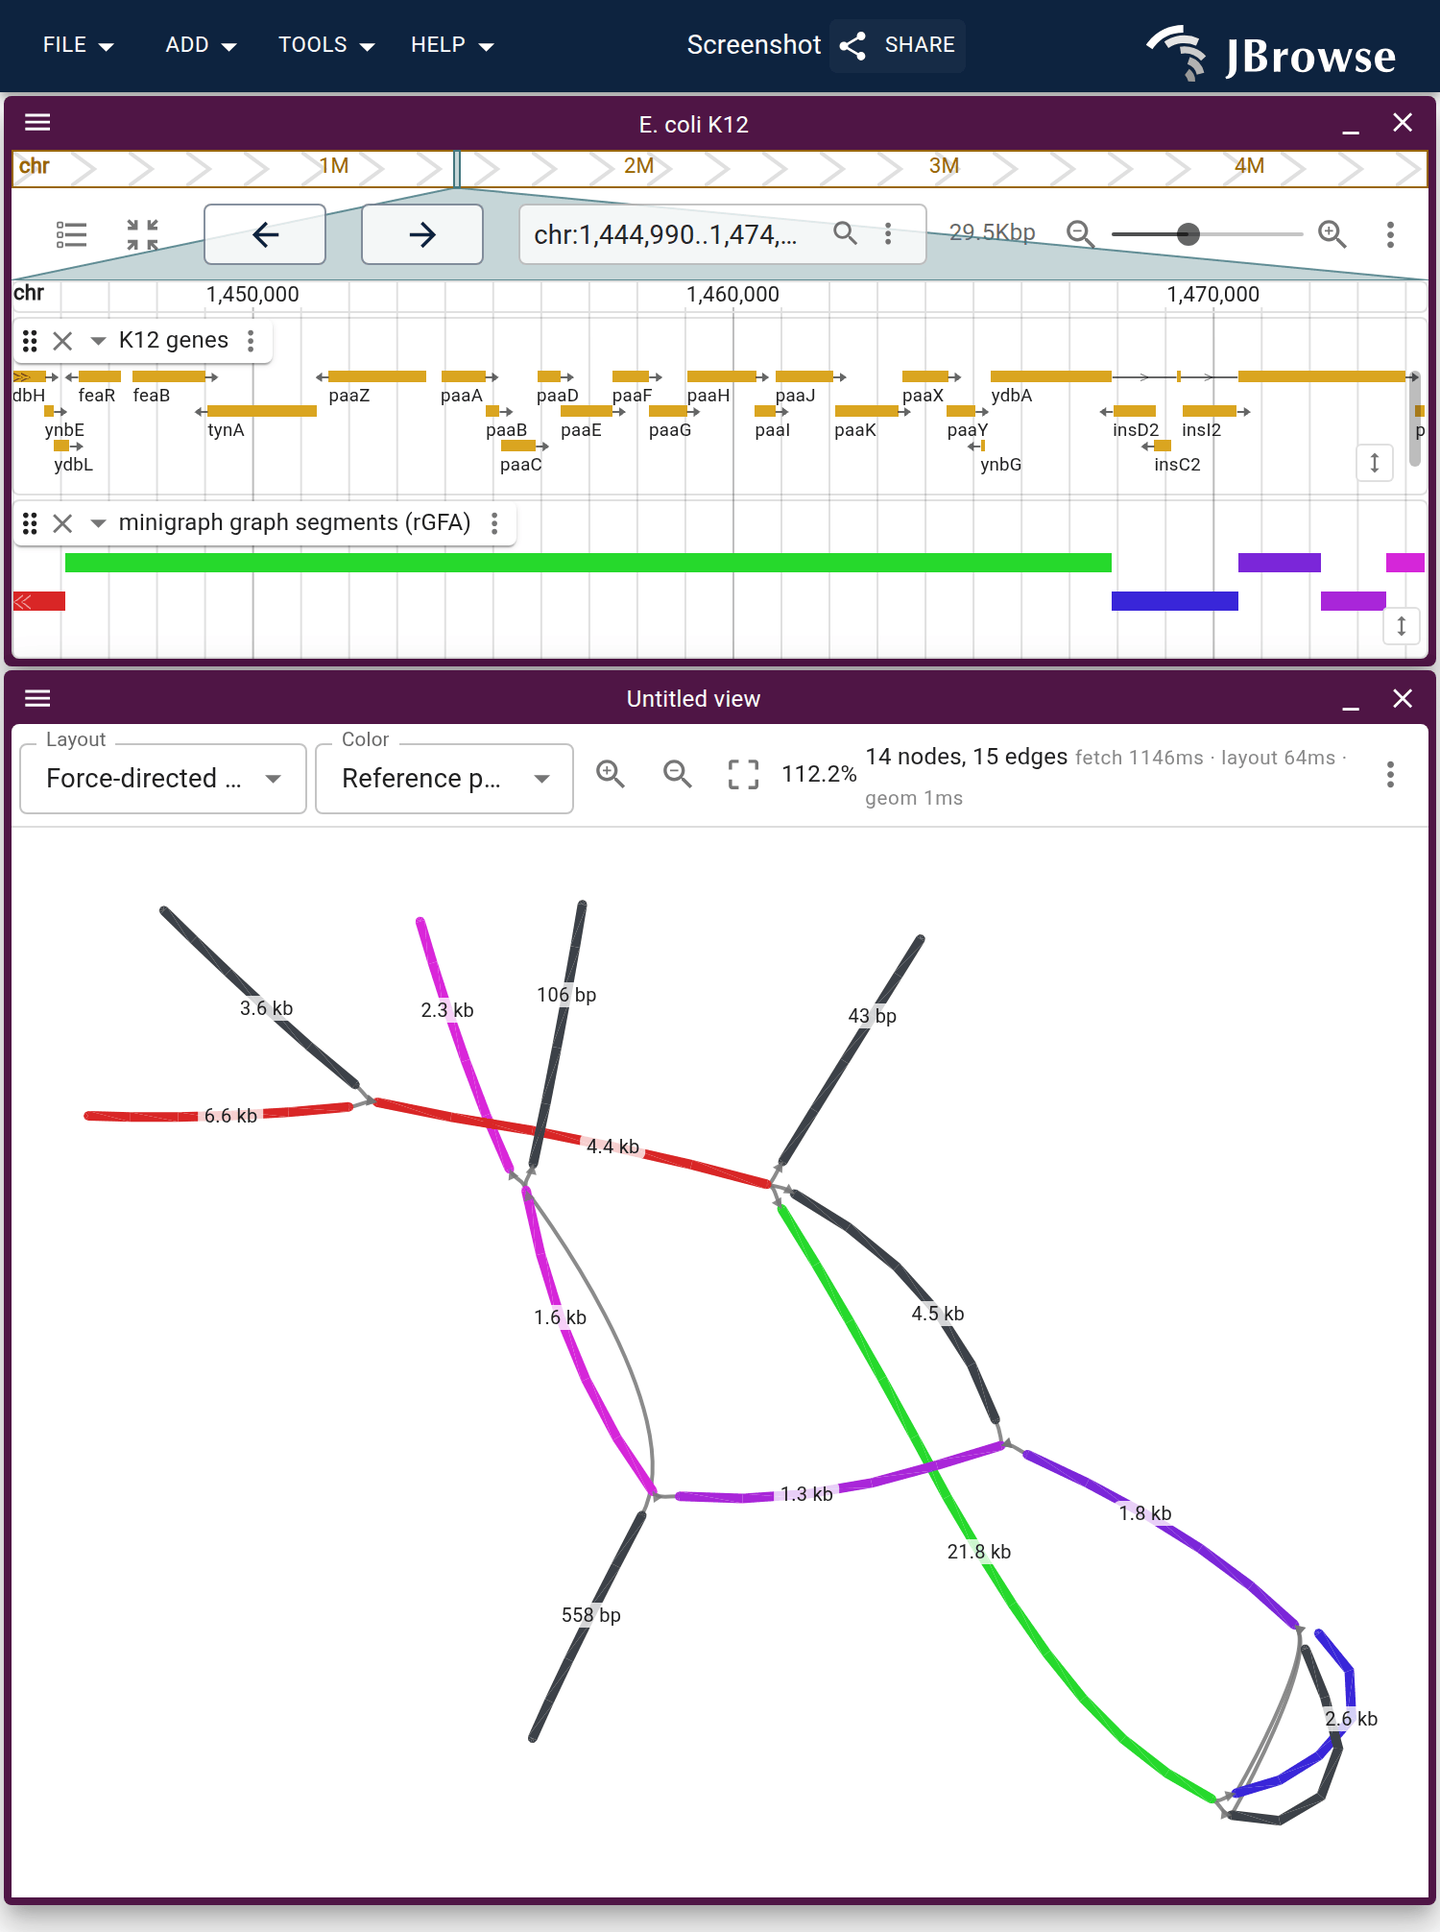
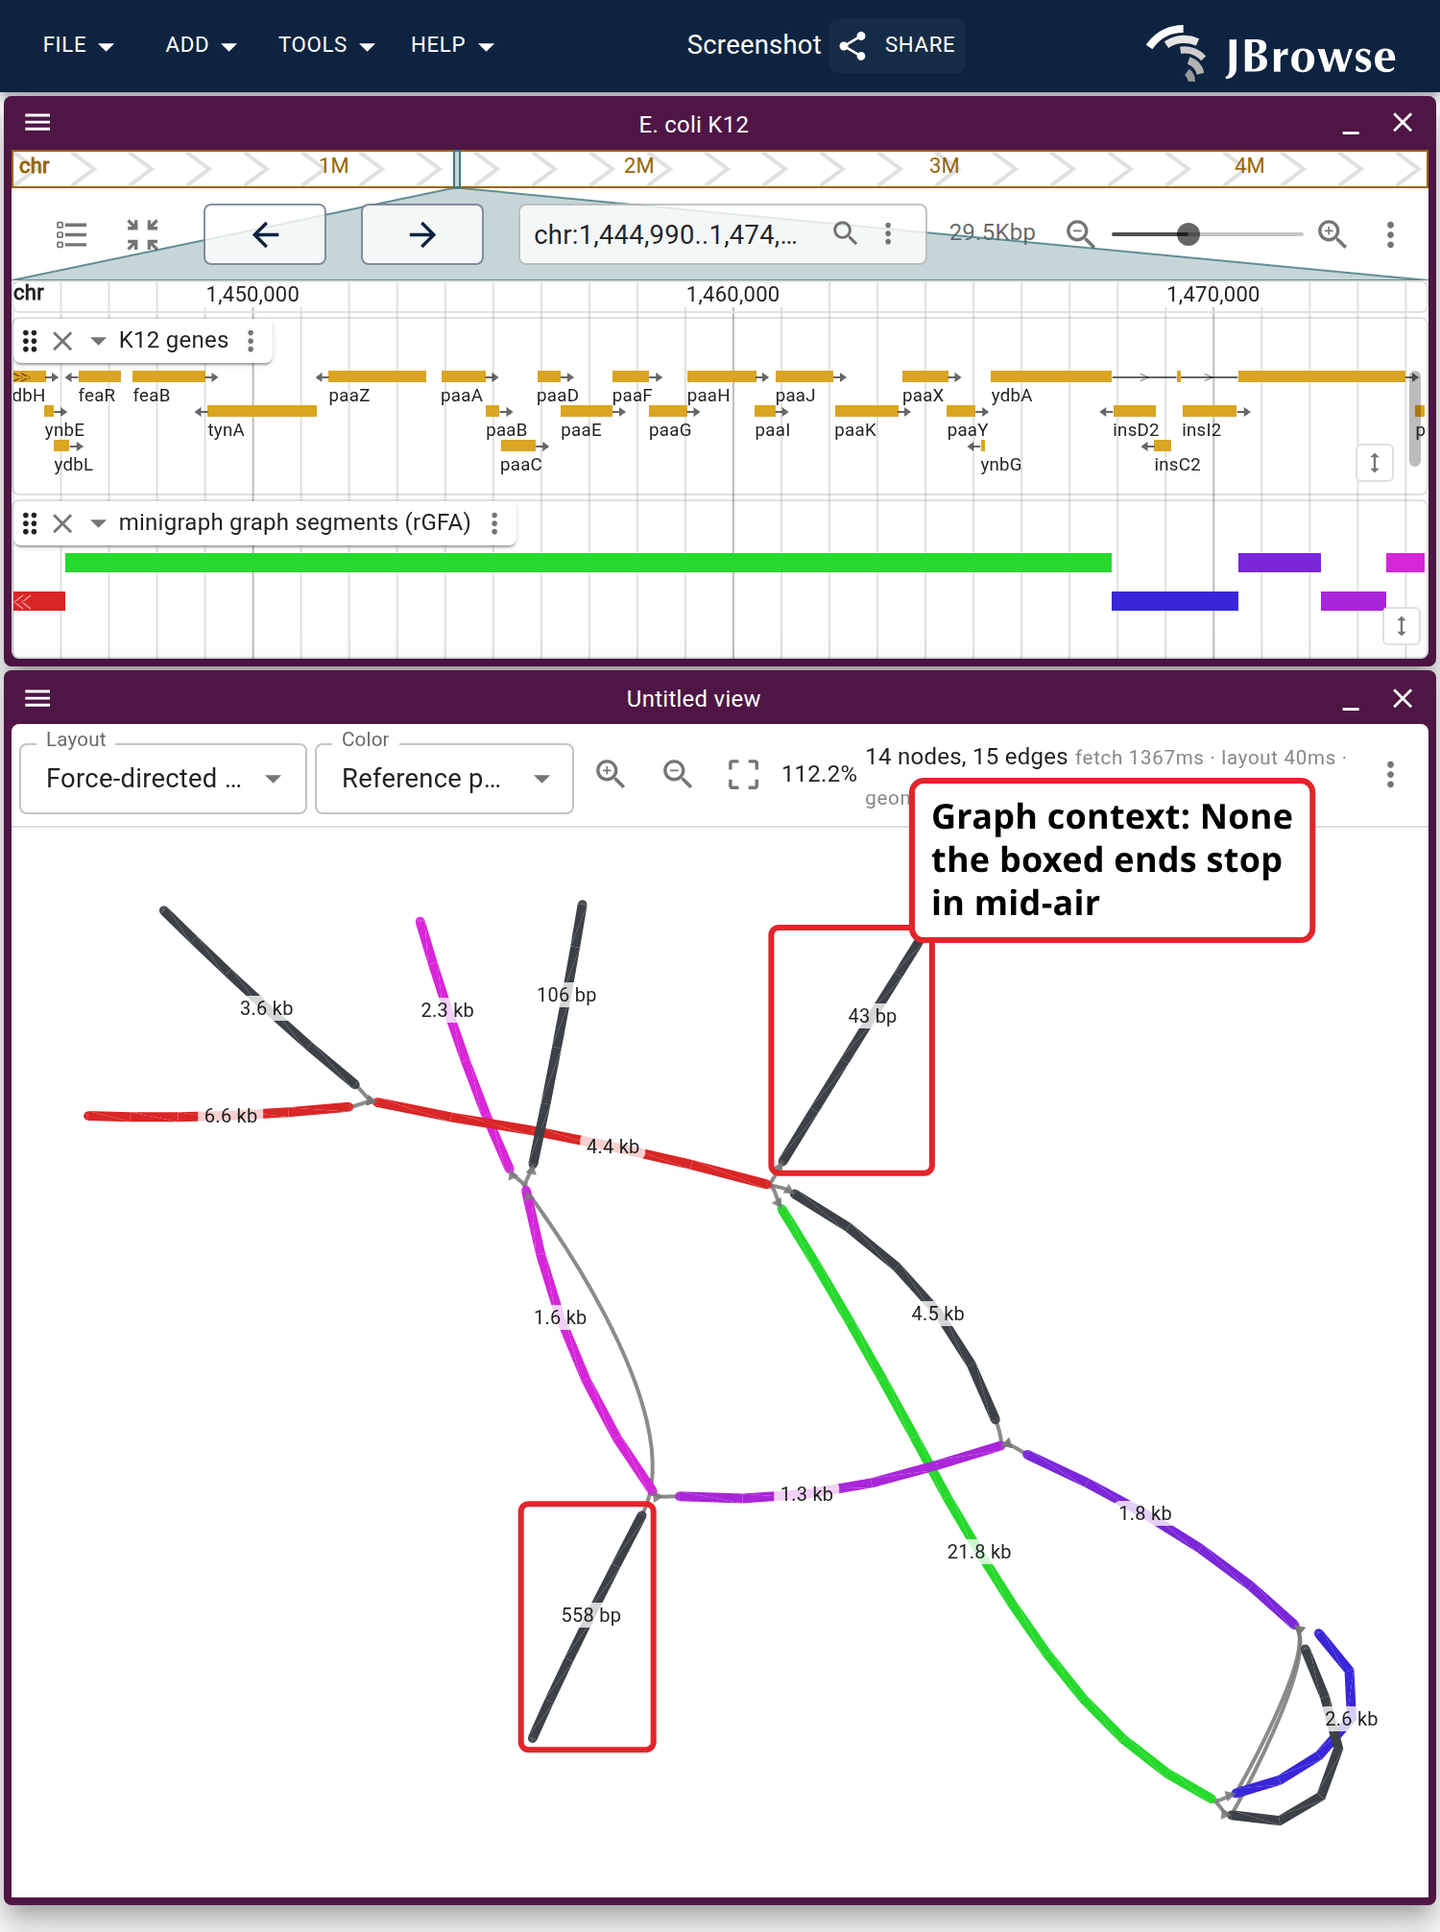
fix(docs): make the graph-context figure state its own difference
The two halves were two FMMM tangles sharing no visible landmark, so the only
thing saying what changed between them was a node count in the header (review:
"I don't particularly understand the difference here. ideally, shows red boxes
and arrow and/or text annotation"). Both halves now carry the setting they are
in, and box THE SAME TWO NODES: 43 bp (s2093) and 558 bp (s2095), where one
CFT073 detour leaves the K12 backbone and rejoins it. Two loose ends at None,
the two sides of a closed bubble at 1 hop, with an arrow on the 5.5 kb interior
(s2094) the extra queries found. Boxed by segment id through the view's own
nodePositions, so the two layouts can place them however they like.

The label anchors to the graph canvas, not to the node-count readout beside it.
That element is text, so its width and centre move with the numbers it happens
to show: 17 nodes against 20 shifted the pill and swung the arrow tail off the
pane, a callout decalibrated by the thing it captions.

Also gives the figure recipe dialog its first GraphGenomeView click-paths. It
had none, so a reader of any graph figure got the session JSON and no menu at
all (review: "what the gui is for selecting this, user might not intuitively
understand"). Seven fields now map, against labels read off the content-pinned
plugin bundle rather than guessed: the launch itself, the window, Layout, Color,
Bubble spread, Reference path and Graph context. The guide spells the menu out
[…]

Changed region(s): [[0.6133, 0.4006, 0.92, 0.5855], [0.3373, 0.7704, 0.46, 0.9245], [0.5213, 0.4622, 0.644, 0.6163]]

diff --git a/website/src/lib/spec-recipe/fields.ts b/website/src/lib/spec-recipe/fields.ts
@@ -319,6 +319,71 @@ const TRACK_LABELS: Record<string, string> = {
   hidden: 'Hidden',
 }
 
+// GraphGenomeView settings. The plugin is third-party, so there is no option
+// table to import the way the alignments ones are imported: every label below is
+// read off the bundle the figures actually render, which is pinned by
+// content-addressed esmUrl in test_data/graphgenomeview, so it cannot drift
+// without a diff in this repo. `Layout` and `Color` are selects in the view's own
+// toolbar. The rest are selects in the `Graph settings` dialog, which the view
+// menu opens with its `Settings` item, and which is the answer to "where is this
+// in the GUI" for a reader who only has the figure (review, on graph_context:
+// "what the gui is for selecting this, user might not intuitively understand").
+const GRAPH_LAYOUTS: Record<string, string> = {
+  auto: 'Anchored',
+  samplerows: 'Sample rows',
+  force: 'Force-directed layout',
+}
+
+const GRAPH_COLOR_SCHEMES: Record<string, string> = {
+  uniform: 'Uniform',
+  random: 'Random',
+  rainbow: 'Rainbow',
+  depth: 'Depth',
+  'node-length': 'Node Length',
+  'stable-rank': 'Stable rank',
+  'reference-position': 'Reference position',
+  grey: 'Grey',
+}
+
+const GRAPH_BUBBLE_SPREADS: Record<string, string> = {
+  auto: 'Proportional',
+  open: 'Open bubbles',
+  wide: 'Wide bubbles',
+}
+
+const GRAPH_CONTEXTS: Record<number, string> = {
+  0: 'None',
+  1: '1 hop',
+  2: '2 hops',
+}
+
+const GRAPH_SETTINGS = 'Graph view menu → Settings'
+
+const graphToolbarField = (
+  label: string,
+  table: Record<string, string>,
+): FieldRecipe => {
+  return value => {
+    const option = typeof value === 'string' ? table[value] : undefined
+    return option
+      ? { path: `Graph view toolbar → ${label} → ${option}` }
+      : undefined
+  }
+}
+
+const graphSettingsField = (
+  label: string,
+  table: Record<string, string>,
+  note?: string,
+): FieldRecipe => {
+  return value => {
+    const option = typeof value === 'string' ? table[value] : undefined
+    return option
+      ? { path: `${GRAPH_SETTINGS} → ${label} → ${option}`, note }
+      : undefined
+  }
+}
+
 export const viewFields: Record<string, FieldRecipe> = {
   showCenterLine: value =>
     typeof value === 'boolean'
@@ -340,6 +405,50 @@ export const viewFields: Record<string, FieldRecipe> = {
     typeof value === 'boolean'
       ? {
           path: `Synteny view menu → Show curved lines (${value ? 'checked' : 'unchecked'})`,
+        }
+      : undefined,
+  // How the view got there at all, which is the step a reader with only the
+  // figure is missing: a graph view is launched from a segments track rather
+  // than added empty. The item is the plugin's own
+  // 'Graph genome view (this region)' inside core's 'Launch view' submenu
+  // (pushLaunchViewMenuItem).
+  loadedTrackId: value =>
+    typeof value === 'string'
+      ? {
+          path: `${TRACK_MENU} (on the graph segments track) → Launch view → Graph genome view (this region)`,
+          note: 'Launching from the track is what ties the two panels together: the graph is cut from the same file the lane above it draws.',
+        }
+      : undefined,
+  loadedRegion: value =>
+    asRecord(value)
+      ? {
+          path: 'Set the location box before launching the graph view.',
+          note: 'The cut is the window the linear view was showing, so the graph covers what you were looking at.',
+        }
+      : undefined,
+  layoutMode: graphToolbarField('Layout', GRAPH_LAYOUTS),
+  colorScheme: graphToolbarField('Color', GRAPH_COLOR_SCHEMES),
+  bubbleSpread: graphSettingsField(
+    'Bubble spread',
+    GRAPH_BUBBLE_SPREADS,
+    'Sets a floor on how long a node is drawn in the force layout, so a short allele is a visible arm rather than a speck. Does nothing in the anchored layouts, which place a node from its coordinates.',
+  ),
+  // the select lists the GFA's own path names, so the figure's value IS the
+  // option a reader picks
+  referencePath: value =>
+    typeof value === 'string'
+      ? {
+          path: `${GRAPH_SETTINGS} → Reference path → ${value}`,
+          note: 'Which path the anchored layouts draw x against. Only offered when the file states more than one.',
+        }
+      : undefined,
+  // the only numeric one of the graph settings, so it can't use the string
+  // tables above
+  subgraphContext: value =>
+    typeof value === 'number' && GRAPH_CONTEXTS[value]
+      ? {
+          path: `${GRAPH_SETTINGS} → Graph context → ${GRAPH_CONTEXTS[value]}`,
+          note: 'How far the cut follows links out of the region. Each hop costs a query per off-reference segment already reached, which is why it defaults to None.',
         }
       : undefined,
   highlight: value =>

diff --git a/website/scripts/specs/graph.ts b/website/scripts/specs/graph.ts
@@ -1,6 +1,6 @@
 import { sessionSpec } from '../screenshot-spec-helpers.ts'
 
-import type { ScreenshotSpec } from '../screenshot-spec-types.ts'
+import type { Annotation, ScreenshotSpec } from '../screenshot-spec-types.ts'
 
 // Figures for the pangenome tutorials that use the third-party
 // jbrowse-plugin-graphgenomeview (GraphGenomeView). The plugin bundle and the
@@ -719,8 +719,56 @@ function pggbLocusSession(
 // (ALT_ALLELE_COLOR) — which is what makes "the added nodes are off-reference"
 // visible rather than asserted. Stable rank was the coloring while these were
 // graph panes alone.
+//
+// Both halves box THE SAME TWO NODES and say which setting they are (review: "I
+// don't particularly understand the difference here. ideally, shows red boxes
+// and arrow and/or text annotation showing the difference between the two
+// sides"). Without that, the difference is stated only as a node count in a
+// header over two FMMM tangles that share no visible landmark, so the reader has
+// nothing to compare. Boxed on their ids rather than their positions, so the two
+// layouts can put them wherever they like:
+//
+// - s2093 (43 bp) and s2095 (558 bp) are where one CFT073 detour leaves the
+//   backbone and rejoins it. At None they are the two loose ends. At 1 hop the
+//   same two boxes are the two sides of a closed bubble.
+// - s2094 (5.5 kb) is that detour's interior. It sits on CFT073's own contig, so
+//   no K12 coordinate names it and the region query cannot reach it. It is what
+//   the hop adds, and the arrow in that half points at it.
+//
+// The hop reaches five other segments too, which is why the right half still has
+// loose ends: one step out lands on a new frontier (s2092, s2387, s2633), and two
+// of the five are rank 0 reference either side of the window (s499, s508).
 function graphContextPartSpecs(): ScreenshotSpec[] {
-  const part = (name: string, subgraphContext: number): ScreenshotSpec => ({
+  const DETOUR_ENTRY = 's2093+'
+  const DETOUR_EXIT = 's2095+'
+  const DETOUR_INTERIOR = 's2094+'
+  // The label sits in the graph pane's own top-right, which is empty in both
+  // layouts, anchored on the canvas the graph draws into. NOT on the node-count
+  // readout beside it, which was the first thing tried: that element is text, so
+  // its width and therefore its centre move with the numbers it happens to be
+  // showing. `17 nodes, 21 edges` against `20 nodes, 25 edges` shifted the pill
+  // and swung the arrow tail off the pane, which is a callout decalibrated by the
+  // thing it is captioning. The canvas is sized by the viewport instead, and its
+  // 13px height difference between the halves is the only thing dy inherits.
+  //
+  // maxWidth is what keeps the pill inside its own half of the composite: with
+  // the pill's left edge at the canvas centre plus dx, the wrap has to leave room
+  // for it inside the remaining ~260px.
+  const canvasAnchor = { selector: '[data-testid="graph-genome-canvas"]' }
+  const label = (text: string): Annotation => ({
+    type: 'text',
+    text,
+    anchor: canvasAnchor,
+    dx: 110,
+    dy: -278,
+    maxWidth: 205,
+    fontSize: 18,
+  })
+  const part = (
+    name: string,
+    subgraphContext: number,
+    text: string,
+  ): ScreenshotSpec => ({
     mode: 'url',
     name,
     url: sessionSpec(CONFIG, {
@@ -776,10 +824,39 @@ function graphContextPartSpecs(): ScreenshotSpec[] {
     // (the 1 hop cut is the taller drawing of the two, so it sets this)
     viewportHeight: 1006,
     hideTooltip: true,
+    annotations: [
+      ...[DETOUR_ENTRY, DETOUR_EXIT].map((graphNode): Annotation => ({
+        type: 'box',
+        anchor: { view: 1, graphNode },
+        strokeWidth: 3,
+      })),
+      label(text),
+      // the arrow only exists in the half that has an interior to point at
+      ...(subgraphContext > 0
+        ? [
+            {
+              type: 'arrow',
+              anchor: { view: 1, graphNode: DETOUR_INTERIOR },
+              // out of the pill's lower left corner, which is where the label
+              // above puts it
+              fromAnchor: { ...canvasAnchor, dx: 160, dy: -206 },
+              strokeWidth: 3,
+            } satisfies Annotation,
+          ]
+        : []),
+    ],
   })
   return [
-    part('pangenome/graph_context_none', 0),
-    part('pangenome/graph_context_hop1', 1),
+    part(
+      'pangenome/graph_context_none',
+      0,
+      'Graph context: None\nthe boxed ends stop in mid-air',
+    ),
+    part(
+      'pangenome/graph_context_hop1',
+      1,
+      'Graph context: 1 hop\nthe interior arrives, closing the bubble',
+    ),
   ]
 }
 

diff --git a/website/docs/user_guides/graph_genome_view.md b/website/docs/user_guides/graph_genome_view.md
@@ -144,9 +144,9 @@ odgi extract -i graph.og -r K12#1#chr:1004500-1004900 -E -o - \
 vg chunk -x graph.xg -p K12#1#chr:1004500-1004900 -c 20 > window.vg
 ```
 
-A plain GFA states no reference, so pick which path to anchor on under
-**Settings → Reference path**. `odgi extract` writes the window into the path
-name (`K12#1#chr:1004500-1004961`), which is where the offsets come from; a
+A plain GFA states no reference, so pick which path to anchor on under **View
+menu → Settings → Reference path**. `odgi extract` writes the window into the
+path name (`K12#1#chr:1004500-1004961`), which is where the offsets come from; a
 whole-genome path simply starts at zero.
 
 ## Three layouts
@@ -193,27 +193,35 @@ mark where it attaches, with its size in the tooltip.
 
 ## Two settings that decide what is drawn
 
-**Settings → Bubble spread** sets a floor on how long a node is drawn in the
-force layout (the anchored layouts place a node from its coordinates, so it does
-nothing there). The engine comes from Bandage, whose graphs are assembled
-contigs of kb to Mb, so its own floor is tiny: a pangenome allele of a few bases
-clamps to a stub, both arms of a bubble land inside one node thickness of each
-other, and the window draws as a single thread. **Open bubbles** and **Wide
-bubbles** give every allele a drawn length instead, at the cost that below the
-floor a node no longer draws proportional to its length.
+**View menu → Settings → Bubble spread** sets a floor on how long a node is
+drawn in the force layout (the anchored layouts place a node from its
+coordinates, so it does nothing there). The engine comes from Bandage, whose
+graphs are assembled contigs of kb to Mb, so its own floor is tiny: a pangenome
+allele of a few bases clamps to a stub, both arms of a bubble land inside one
+node thickness of each other, and the window draws as a single thread. **Open
+bubbles** and **Wide bubbles** give every allele a drawn length instead, at the
+cost that below the floor a node no longer draws proportional to its length.
 
-**Settings → Graph context** is how far the cut follows links past the region,
-and it defaults to **None**. An allele's interior segments are indexed under
-their own haplotype's sequence, so a query on the reference never reaches them,
-and a detour that leaves the backbone before the window and rejoins after it
-arrives as two stubs rather than as the one event it is. **1 hop** closes those,
-costing a query per off-reference segment already reached.
+**View menu → Settings → Graph context** is how far the cut follows links past
+the region, and it defaults to **None**. An allele's interior segments are
+indexed under their own haplotype's sequence, so a query on the reference never
+reaches them, and a detour that leaves the backbone before the window and
+rejoins after it arrives as two stubs rather than as the one event it is. **1
+hop** closes those, costing a query per off-reference segment already reached.
+Set it whenever the shape of the graph is what you are reading: at None one
+detour draws as two unrelated insertions.
 
-<Figure caption="The paa island cut from the same segments track twice, each cut under the linear view it was made from. The genes and the segments lane are the same in both halves, and the long green block is the island, which the graph draws as the green node labelled 21.8 kb. Left, at Graph context None: the charcoal off-reference segments end in mid-air, because the sequence between them sits on a strain's own contig that no K12 coordinate reaches. Right, at 1 hop: the same segments close into bubbles the backbone runs through, and the node and edge counts in the header rise to match." src="/img/pangenome/graph_context.png" links="None=pangenome/graph_context_none,1 hop=pangenome/graph_context_hop1" />
+<Figure caption="The paa island cut from the same segments track twice, each cut under the linear view it was made from. The genes and the segments lane are the same in both halves, and the long green block is the island, which the graph draws as the green node labelled 21.8 kb. The red boxes are the same two nodes in both halves, 43 bp and 558 bp, where one CFT073 detour leaves the backbone and rejoins it. Left, at Graph context None, they end in mid-air, because the sequence between them sits on that strain's own contig, which no K12 coordinate reaches. Right, at 1 hop, the arrow marks the 5.5 kb interior the extra queries found, and the two boxes are now the two sides of a closed bubble (the node and edge counts in the header rise to match). A hop is one step, so the right half has loose ends of its own where the walk stopped, plus the reference either side of the window at 308 bp and 9.5 kb." src="/img/pangenome/graph_context.png" links="None=pangenome/graph_context_none,1 hop=pangenome/graph_context_hop1" />
 
-It expands a coordinate frontier rather than walking the graph, so it does not
-converge on an exact slice however far it runs; cut one of those with
-`gfatools view -R <region> -r 1` and open it as a [file](#route-2-a-gfa-file).
+There is a **2 hops** setting as well, and the two extra steps are not the same
+kind of thing. On this window 1 hop is the detour interiors, which is the whole
+of the figure above. 2 hops is mostly backbone outside the window, plus the 40
+kb Sakai segment behind one of the alleles, none of which the linear panel can
+show: it widens the neighbourhood rather than completing the window. The setting
+expands a coordinate frontier rather than walking the graph, so it never
+converges on an exact slice however far it runs. For an exact slice, cut one
+with `gfatools view -R <region> -r 1` and open it as a
+[file](#route-2-a-gfa-file).
 
 ## Colors that mean the same thing in both panels
 

diff --git a/website/docs/tutorials/pangenome_ecoli.md b/website/docs/tutorials/pangenome_ecoli.md
@@ -494,9 +494,9 @@ in_pggb bash -c "odgi extract -i /data/$og -r K12#1#chr:1004500-1004900 -E -o - 
 ```
 
 Nothing in a plain GFA marks one path as the reference, so pick which to anchor
-on under **Settings → Reference path**. `odgi extract` writes the window into
-the path name (`K12#1#chr:1004500-1004961`), which is where the offsets come
-from.
+on under **View menu → Settings → Reference path**. `odgi extract` writes the
+window into the path name (`K12#1#chr:1004500-1004961`), which is where the
+offsets come from.
 
 The same walk outside the browser puts those nodes on a linear track, so the
 segment under the cursor is the same segment in both panels:
